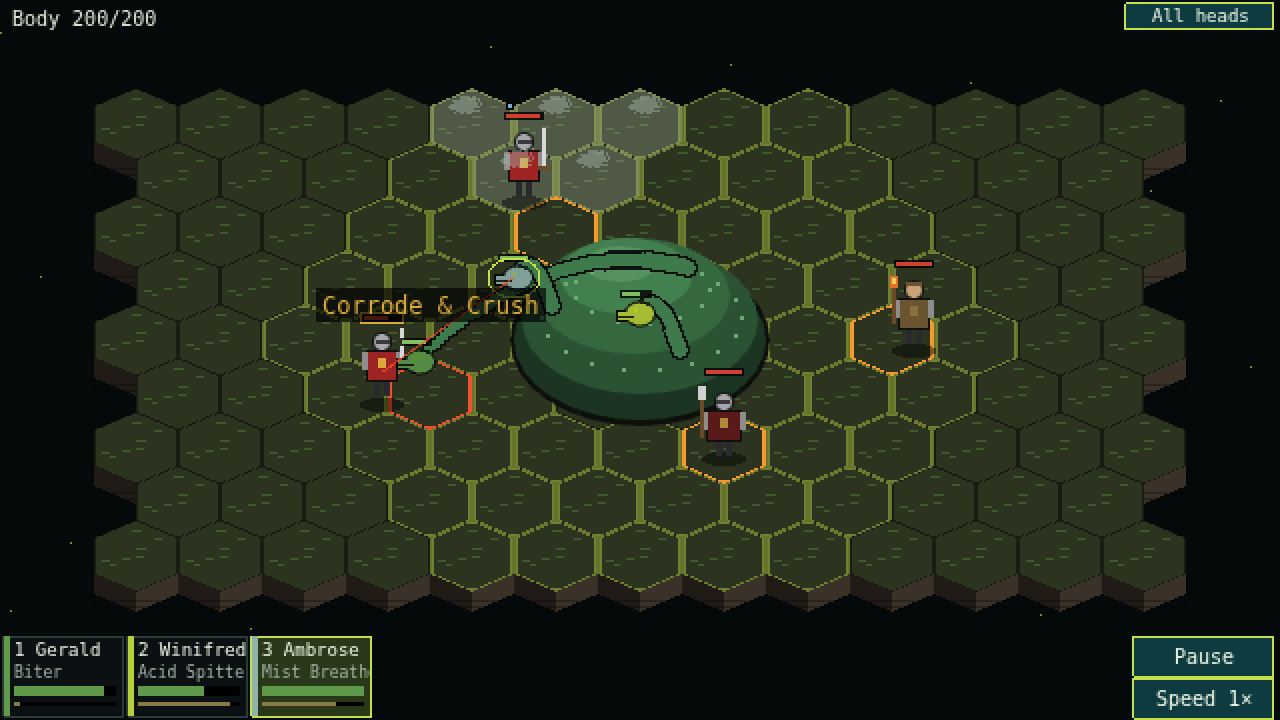
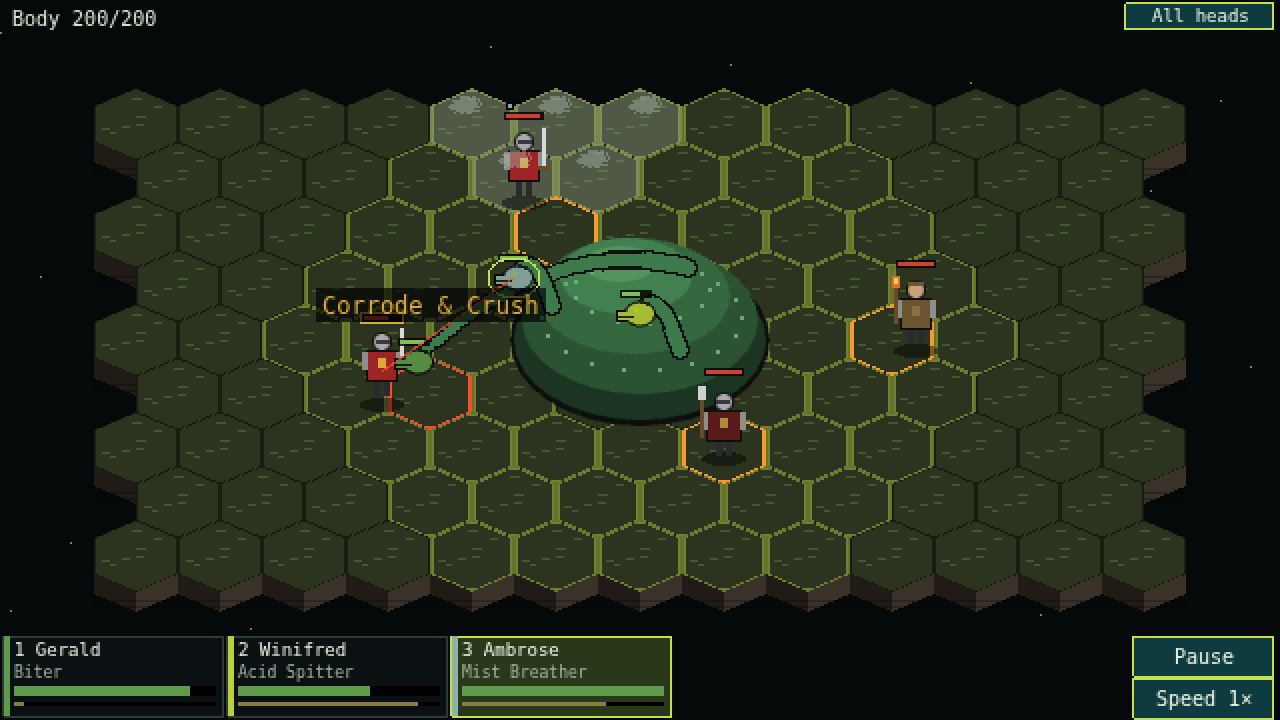
Old Crypts and Salt Mines, salt ground, wider head cards, ?reveal=1
- Two more biomes from GAME_DESIGN.md section 9: Old Crypts (catacomb
  floors, urns, broken pillars, more walls) and Salt Mines (salt crust,
  crystals; dry and more dangerous). Salt costs 3 movement points.
- Biomes can make encounters more or less likely (encounterDensity).
- Head cards share the row as if there were at least five heads, so class
  names fit; the smoke test taps cards where the game says they are.
- ?reveal=1 shows the whole underground map at the start.
- Minimap rows no longer leave dark stripes between them.

Changed region(s): [[0.0625, 0.8861, 0.5312, 1.0], [0.6875, 0.3972, 0.75, 0.4583], [0.3125, 0.4583, 0.3438, 0.5194]]

diff --git a/src/assets/mapPlaceholders.ts b/src/assets/mapPlaceholders.ts
@@ -44,7 +44,7 @@ function shade(hex: string, amount: number): string {
 
 /** map_ground_<biome>_<terrain>: the hex face in the biome's colours, with a thin earth wall under its lower edges. */
 const drawGround: PlaceholderDrawer = (scene, key, width, height, _palette, data) => {
-  const [, biomeId, terrain] = /^map_ground_(.+)_(water|mud|roots)$/.exec(key) ?? [];
+  const [, biomeId, terrain] = /^map_ground_(.+)_(water|mud|roots|salt)$/.exec(key) ?? [];
   const colors = data.biomes.biomes[biomeId ?? '']?.colors;
   if (!colors) throw new Error(`No biome colours for "${key}"`);
   const g = scene.make.graphics({}, false);
@@ -73,6 +73,12 @@ const drawGround: PlaceholderDrawer = (scene, key, width, height, _palette, data
   } else {
     speck(colors.detail, 9, 2);
     speck(shade(colors.ground, 1.25), 5, 1);
+  }
+  if (terrain === 'salt') {
+    // A dry white crust, cracked, with crystals catching the light.
+    speck('#cfc6bc', 10, 3);
+    speck('#f4eee8', 6, 1);
+    speck(shade(colors.ground, 0.6), 4, 4); // cracks
   }
   if (terrain === 'roots') {
     // Roots crawling over the ground.
@@ -179,6 +185,30 @@ const decorations: Record<string, PlaceholderDrawer> = {
     px(g, '#1a1020', cx - 5, b - 9, 10, 4);
     px(g, '#8a6a5a', cx - 4, b - 9, 8, 3);
     px(g, '#b08a78', cx - 2, b - 9, 3, 1);
+  }),
+  map_deco_crystal: decoration((g, cx, b) => {
+    for (const [dx, h, w] of [[-3, 9, 3], [1, 13, 3], [4, 7, 2]] as const) {
+      px(g, '#3a3036', cx + dx - 1, b - h - 1, w + 2, h + 1);
+      px(g, '#e8d8e0', cx + dx, b - h, w, h);
+      px(g, '#ffffff', cx + dx, b - h, 1, Math.floor(h / 2));
+      px(g, '#c8a8b8', cx + dx + w - 1, b - h + 2, 1, h - 2);
+    }
+  }),
+  map_deco_urn: decoration((g, cx, b) => {
+    px(g, '#1a1410', cx - 4, b - 10, 9, 10);
+    px(g, '#8a5a3a', cx - 3, b - 9, 7, 8);
+    px(g, '#a8744c', cx - 2, b - 8, 2, 5);
+    px(g, '#1a1410', cx - 2, b - 12, 5, 3);
+    px(g, '#6b4a2a', cx - 1, b - 11, 3, 1);
+  }),
+  map_deco_brokenPillar: decoration((g, cx, b) => {
+    px(g, '#15120f', cx - 5, b - 13, 11, 13);
+    px(g, '#6b6458', cx - 4, b - 12, 9, 12);
+    px(g, '#8a8276', cx - 4, b - 12, 2, 12);
+    px(g, '#4a443c', cx + 2, b - 12, 2, 12);
+    px(g, '#15120f', cx - 4, b - 14, 4, 2); // broken top
+    px(g, '#15120f', cx + 1, b - 15, 4, 3);
+    px(g, '#6b6458', cx + 7, b - 2, 3, 2); // a fallen chunk
   }),
   map_deco_glowMushroom: decoration((g, cx, b) => {
     px(g, '#e8dff0', cx - 1, b - 8, 2, 8);
@@ -389,7 +419,7 @@ export const mapPlaceholderDrawers: Readonly<Record<string, PlaceholderDrawer>> 
 
 /** Placeholders made from a biome's colours: map_ground_<biome>_<water|mud|roots> and map_rock_<biome>. */
 export function mapPlaceholderFor(key: string): PlaceholderDrawer | undefined {
-  if (/^map_ground_.+_(water|mud|roots)$/.test(key)) return drawGround;
+  if (/^map_ground_.+_(water|mud|roots|salt)$/.test(key)) return drawGround;
   if (/^map_rock_.+$/.test(key)) return drawRock;
   return undefined;
 }

diff --git a/src/ui/HeadCards.ts b/src/ui/HeadCards.ts
@@ -6,6 +6,8 @@ import * as Phaser from 'phaser';
 import { wantsToAdd } from './keys';
 
 const CARD_HEIGHT = 40;
+/** Cards share the row as if there were at least this many heads: with few heads they are wide enough for whole names. */
+const MIN_SLOTS = 5;
 /** Cards are drawn above the bottom panel. */
 const DEPTH = 150;
 const GAP = 2;
@@ -47,7 +49,7 @@ interface Card {
  */
 export class HeadCards {
   private readonly style: HeadCardsStyle;
-  private readonly cardWidth: number;
+  private cardWidth: number;
   private cards = new Map<string, Card>();
   private objects: Phaser.GameObjects.GameObject[] = [];
   /** Which heads the cards were built for. */
@@ -59,7 +61,16 @@ export class HeadCards {
     private readonly onSelect: (headId: string, add: boolean) => void,
   ) {
     this.style = style;
-    this.cardWidth = Math.floor((style.width - GAP * (style.maxCards - 1)) / style.maxCards);
+    this.cardWidth = this.widthFor(MIN_SLOTS);
+  }
+
+  private widthFor(slots: number): number {
+    return Math.floor((this.style.width - GAP * (slots - 1)) / slots);
+  }
+
+  /** Middle of each card on screen (for tests that tap them like a player). */
+  centers(): Array<{ id: string; x: number; y: number }> {
+    return [...this.cards.entries()].map(([id, card]) => ({ id, x: card.bg.x + card.bg.width / 2, y: card.bg.y + card.bg.height / 2 }));
   }
 
   update(heads: readonly HeadCardInfo[], selected: ReadonlySet<string>): void {
@@ -82,6 +93,7 @@ export class HeadCards {
   }
 
   private build(heads: readonly HeadCardInfo[]): void {
+    this.cardWidth = this.widthFor(Math.min(this.style.maxCards, Math.max(MIN_SLOTS, heads.length)));
     for (const object of this.objects) object.destroy();
     this.objects = [];
     this.cards.clear();

diff --git a/src/sim/map/generateUnderground.ts b/src/sim/map/generateUnderground.ts
@@ -14,8 +14,8 @@ import type { HexMap, TerrainTable, TerrainType, Tile } from './types';
 
 export type GroundType = Exclude<TerrainType, 'rock'>;
 
-/** Open ground is laid from the wettest hexes up: water first, then mud, then roots. */
-const GROUND_ORDER: readonly GroundType[] = ['water', 'mud', 'roots'];
+/** Open ground is laid from the wettest hexes up: water first, then mud, then roots, then dry salt. */
+const GROUND_ORDER: readonly GroundType[] = ['water', 'mud', 'roots', 'salt'];
 
 export interface BiomeSettings {
   id: string;
@@ -23,6 +23,8 @@ export interface BiomeSettings {
   ground: Readonly<Partial<Record<GroundType, number>>>;
   /** Share of the biome's hexes that are rock walls. */
   rockShare: number;
+  /** How likely encounters are here compared with other biomes at the same distance (1 = normal). */
+  encounterDensity: number;
 }
 
 /** How many of something to place, how far from the lair, and how far from each other. */
@@ -174,7 +176,8 @@ function tryGenerate(rng: Rng, grid: HexGrid, s: UndergroundGeneratorSettings, t
   }
 
   // Encounters: the further from the lair, the more likely, and the stronger the group.
-  const encounters = pickSpread(rng, free(s.encounters.minDistanceFromLair), s.encounters, fromLair);
+  const density = new Map([s.lairBiome, ...s.outerBiomes].map((b) => [b.id, b.encounterDensity]));
+  const encounters = pickSpread(rng, free(s.encounters.minDistanceFromLair), s.encounters, (t) => fromLair(t) * (density.get(t.biome) ?? 1));
   if (!encounters) return null;
   for (const t of encounters) {
     const tier = encounterTier(fromLair(t), s.encounters.tierStartsAtDistance);

diff --git a/src/data/runRules.ts b/src/data/runRules.ts
@@ -11,14 +11,14 @@ export function runRulesFrom(data: GameData): RunRules {
   const terrainRule = (t: Balance['terrain']['water']) => ({ moveCost: t.moveCost, blocksSight: t.blocksSight });
   const biome = (id: string): BiomeSettings => {
     const b = biomes.biomes[id]!;
-    return { id, ground: b.ground, rockShare: b.rockShare };
+    return { id, ground: b.ground, rockShare: b.rockShare, encounterDensity: b.encounterDensity ?? 1 };
   };
   const groupsByTier: Record<number, Array<{ id: string; weight: number }>> = {};
   for (const g of enemies.encounterGroups) (groupsByTier[g.tier] ??= []).push({ id: g.id, weight: g.weight });
   return {
     movementPointsPerTurn: map.movementPointsPerTurn,
     sightRangeHexes: map.sightRangeHexes,
-    terrain: { water: terrainRule(terrain.water), mud: terrainRule(terrain.mud), roots: terrainRule(terrain.roots), rock: terrainRule(terrain.rock) },
+    terrain: { water: terrainRule(terrain.water), mud: terrainRule(terrain.mud), roots: terrainRule(terrain.roots), salt: terrainRule(terrain.salt), rock: terrainRule(terrain.rock) },
     alertMin: alert.min,
     alertMax: alert.max,
     alertPerHexDiscovered: alert.perHexDiscovered,

diff --git a/src/data/schemas.ts b/src/data/schemas.ts
@@ -37,6 +37,7 @@ export const balanceSchema = section({
     water: terrainRulesSchema,
     mud: terrainRulesSchema,
     roots: terrainRulesSchema,
+    salt: terrainRulesSchema,
     rock: terrainRulesSchema,
   }),
   undergroundGenerator: section({
@@ -167,7 +168,7 @@ export const enemiesSchema = section({
 });
 
 /** Kinds of open ground a biome can have (rock walls are counted separately, with rockShare). */
-export const GROUND_TYPES = ['water', 'mud', 'roots'] as const;
+export const GROUND_TYPES = ['water', 'mud', 'roots', 'salt'] as const;
 
 export const biomesSchema = section({
   lairBiome: z.string().min(1),
@@ -178,6 +179,8 @@ export const biomesSchema = section({
       decorations: z.array(z.enum(DECORATION_KINDS)),
       ground: z.partialRecord(z.enum(GROUND_TYPES), share),
       rockShare: share,
+      // How likely encounters are here compared with other biomes (1 = normal, 1.5 = half as many again).
+      encounterDensity: z.number().positive().optional(),
       colors: section({ ground: hexColor, detail: hexColor, water: hexColor, rock: hexColor, glow: hexColor }),
     }),
   ),

diff --git a/src/urlParams.ts b/src/urlParams.ts
@@ -6,6 +6,7 @@
 //   ?hp=5         with ?scene=battle: start the test battle with this much body HP (to see a defeat quickly)
 //   ?speed=4      battles run this many times faster (for tests)
 //   ?near=shrine  with ?scene=map: start next to the nearest object of that kind (shrine, passage, encounter, moisture...)
+//   ?reveal=1     show the whole underground map at the start (to look at what the generator made)
 
 import { seedFromString } from './sim/rng';
 
@@ -23,6 +24,8 @@ export interface UrlParams {
   speed: number | null;
   /** Start the map next to the nearest object of this kind, or null. */
   near: string | null;
+  /** Show the whole map at the start. */
+  reveal: boolean;
 }
 
 export function parseUrlParams(search: string): UrlParams {
@@ -43,5 +46,6 @@ export function parseUrlParams(search: string): UrlParams {
     hp: positive('hp'),
     speed: positive('speed'),
     near: params.get('near')?.trim() || null,
+    reveal: params.get('reveal') === '1' || params.get('reveal') === 'true',
   };
 }

diff --git a/src/ui/Minimap.ts b/src/ui/Minimap.ts
@@ -47,9 +47,10 @@ export class Minimap {
     const g = this.graphics;
     g.clear();
     const { map, visibility, hydra } = this.run.state;
+    // Terrain dots are a little taller than the row step, so rows touch instead of leaving dark stripes between them.
     const dot = (h: Hex, fill: number, alpha = 1, size = 2) => {
       g.fillStyle(fill, alpha);
-      g.fillRect(Math.round(this.center.x + (h.q + h.r / 2) * DOT.across - size / 2), Math.round(this.center.y + h.r * DOT.down - size / 2), size + 1, size);
+      g.fillRect(Math.round(this.center.x + (h.q + h.r / 2) * DOT.across - size / 2), Math.round(this.center.y + h.r * DOT.down - size / 2), size + 1, size + 1);
     };
     for (const [key, state] of visibility) {
       const tile = map.tiles.get(key);

diff --git a/tests/run.test.ts b/tests/run.test.ts
@@ -13,6 +13,7 @@ const terrain: TerrainTable = {
   water: { moveCost: 1, blocksSight: false },
   mud: { moveCost: 1, blocksSight: false },
   roots: { moveCost: 2, blocksSight: false },
+  salt: { moveCost: 3, blocksSight: false },
   rock: { moveCost: null, blocksSight: true },
 };
 
@@ -59,6 +60,13 @@ describe('visibility', () => {
 });
 
 describe('movement', () => {
+  it('salt costs three movement points', () => {
+    const state = runOn(flatMap(4, (tiles) => {
+      tiles.get('1,0')!.terrain = 'salt';
+    }), 3);
+    expect(reachableHexes(state, testRules).get('1,0')?.cost).toBe(3);
+  });
+
   it('roots cost two movement points', () => {
     const state = runOn(flatMap(4, (tiles) => {
       tiles.get('1,0')!.terrain = 'roots';

diff --git a/src/assets/mapArt.ts b/src/assets/mapArt.ts
@@ -15,7 +15,20 @@ export const MAP_ROW_HEIGHT = 18;
 export const MAP_FEET_BELOW_HEX_CENTER = 3;
 
 /** Decorations a biome can scatter over its ground (biomes.json "decorations"); each has an image map_deco_<kind>. */
-export const DECORATION_KINDS = ['reeds', 'bones', 'pebbles', 'stalagmite', 'puddle', 'roots', 'sprout', 'mushroom', 'glowMushroom'] as const;
+export const DECORATION_KINDS = [
+  'reeds',
+  'bones',
+  'pebbles',
+  'stalagmite',
+  'puddle',
+  'roots',
+  'sprout',
+  'mushroom',
+  'glowMushroom',
+  'crystal',
+  'urn',
+  'brokenPillar',
+] as const;
 export type DecorationKind = (typeof DECORATION_KINDS)[number];
 
 /** Decorations that give off light in the biome's glow colour. */

diff --git a/tests/urlParams.test.ts b/tests/urlParams.test.ts
@@ -11,11 +11,13 @@ describe('parseUrlParams', () => {
       hp: 5,
       speed: 4,
       near: null,
+      reveal: false,
     });
   });
 
   it('returns defaults when nothing is given', () => {
-    expect(parseUrlParams('')).toEqual({ seed: null, scene: null, debug: false, group: null, hp: null, speed: null, near: null });
+    expect(parseUrlParams('')).toEqual({ seed: null, scene: null, debug: false, group: null, hp: null, speed: null, near: null, reveal: false });
+    expect(parseUrlParams('?reveal=1').reveal).toBe(true);
     expect(parseUrlParams('?near=shrine').near).toBe('shrine');
   });
 

diff --git a/src/scenes/RunController.ts b/src/scenes/RunController.ts
@@ -82,6 +82,11 @@ export class RunController extends Phaser.Events.EventEmitter {
     }
   }
 
+  /** For `?reveal=1`: every hex becomes known (seen before), to look at the whole map. Testing only. */
+  revealAll(): void {
+    for (const key of this.state.map.tiles.keys()) if (!this.state.visibility.has(key)) this.state.visibility.set(key, 'remembered');
+  }
+
   private publish(events: RunEvent[]): void {
     if (events.length === 0) return;
     this.lastEvents = events;

diff --git a/src/scenes/BattleScene.ts b/src/scenes/BattleScene.ts
@@ -167,6 +167,7 @@ export class BattleScene extends Phaser.Scene {
       }),
       heads: this.battle.heads.map((h) => ({ id: h.id, classId: h.classId, x: this.heads.get(h.id)?.x ?? 0, y: this.heads.get(h.id)?.y ?? 0 })),
       selected: [...this.selected],
+      cards: this.cards.centers(),
       orders: Object.fromEntries(this.battle.heads.map((h) => [h.id, h.orderTargetId])),
       clouds: this.battle.clouds.length,
       combos: [...this.combosSeen],
